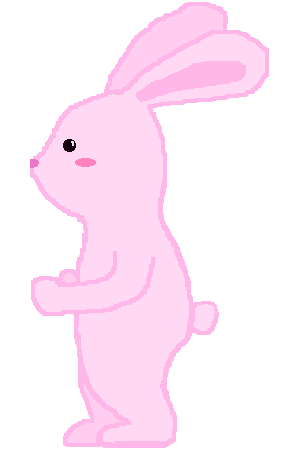
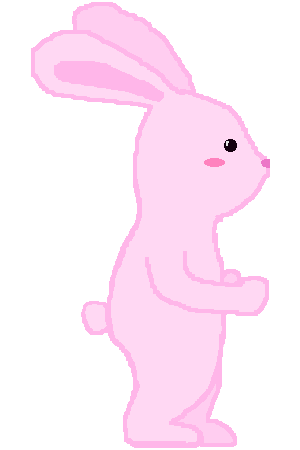
!!점프, 물체 추가하기 해야한다!

diff --git a/src/EarthPart.java b/src/EarthPart.java
@@ -5,8 +5,10 @@ import java.awt.event.KeyListener;
 
 public class EarthPart extends JFrame {
     private Image earthBackground;
-    private Image[] rightRabbit = new Image[2];
-    private Image[] leftRabbit = new Image[2];
+    private Image[] rightRabbit = new Image[3];
+    private Image[] leftRabbit = new Image[3];
+    private Image rabbitBetween;
+    private Image leftRabbitBetween;
 
     private boolean isJumping = false;
     private boolean isMovingLeft = false;
@@ -21,7 +23,7 @@ public class EarthPart extends JFrame {
     private int backgroundX = 0; // 배경의 위치
 
     private int frameCount = 0;
-    private int frameDelay = 10; // 0.1초에 한 번씩 변경 (10ms * 16 = 160ms)
+    private int frameDelay = 5; // 토끼 이미지 변경 속도
 
     private int backgroundSpeed = 4; // 배경 이동 속도 : 숫자가 높을수록 빠름
 
@@ -35,11 +37,16 @@ public class EarthPart extends JFrame {
         setVisible(true);
 
         earthBackground = new ImageIcon(getClass().getResource("img/EarthBackground.png")).getImage();
+
         Image rightRabbitRun1 = new ImageIcon(getClass().getResource("img/rabbit_run1.png")).getImage();
+        rabbitBetween = new ImageIcon(getClass().getResource("img/rabbit_between.png")).getImage();
         Image rightRabbitRun2 = new ImageIcon(getClass().getResource("img/rabbit_run2.png")).getImage();
+        Image rightRabbitJump = new ImageIcon(getClass().getResource("img/rabbit_jump.png")).getImage();
 
         Image leftRabbitRun1 = new ImageIcon(getClass().getResource("img/left_rabbit_run1.png")).getImage();
+        leftRabbitBetween = new ImageIcon(getClass().getResource("img/left_rabbit_between.png")).getImage();
         Image leftRabbitRun2 = new ImageIcon(getClass().getResource("img/left_rabbit_run2.png")).getImage();
+        Image leftRabbitJump = new ImageIcon(getClass().getResource("img/left_rabbit_jump.png")).getImage();
 
         int rabbitWidth = rightRabbitRun1.getWidth(null);
         int rabbitHeight = rightRabbitRun1.getHeight(null);
@@ -48,10 +55,12 @@ public class EarthPart extends JFrame {
         scaledHeight = (int) (rabbitHeight * 0.5);
 
         rightRabbit[0] = rightRabbitRun1.getScaledInstance(scaledWidth, scaledHeight, Image.SCALE_SMOOTH);
-        rightRabbit[1] = rightRabbitRun2.getScaledInstance(scaledWidth, scaledHeight, Image.SCALE_SMOOTH);
+        rightRabbit[1] = rabbitBetween.getScaledInstance(scaledWidth, scaledHeight, Image.SCALE_SMOOTH);
+        rightRabbit[2] = rightRabbitRun2.getScaledInstance(scaledWidth, scaledHeight, Image.SCALE_SMOOTH);
 
         leftRabbit[0] = leftRabbitRun1.getScaledInstance(scaledWidth, scaledHeight, Image.SCALE_SMOOTH);
-        leftRabbit[1] = leftRabbitRun2.getScaledInstance(scaledWidth, scaledHeight, Image.SCALE_SMOOTH);
+        leftRabbit[1] = leftRabbitBetween.getScaledInstance(scaledWidth, scaledHeight, Image.SCALE_SMOOTH);
+        leftRabbit[2] = leftRabbitRun2.getScaledInstance(scaledWidth, scaledHeight, Image.SCALE_SMOOTH);
 
         addKeyListener(new MyKeyListener());
         setContentPane(new MyPanel());
@@ -91,10 +100,10 @@ public class EarthPart extends JFrame {
             // 키 눌림 이벤트 처리
             if (e.getKeyCode() == KeyEvent.VK_RIGHT) {
                 isMovingRight = true;
-                isMovingLeft = false; //오른쪽으로 이동할 때 왼쪽 이동 상태를 해제
+                isMovingLeft = false; // 오른쪽으로 이동할 때 왼쪽 이동 상태를 해제
             } else if (e.getKeyCode() == KeyEvent.VK_LEFT) {
-                isMovingLeft = true; // 추가: 왼쪽으로 이동할 때 왼쪽 이동 상태를 설정합니다.
-                isMovingRight = false; //왼쪽으로 이동할 때 오른쪽 이동 상태를 해제
+                isMovingLeft = true; //왼쪽으로 이동할 때 왼쪽 이동 상태를 설정합니다.
+                isMovingRight = false; // 왼쪽으로 이동할 때 오른쪽 이동 상태를 해제
             }
         }
 
@@ -110,16 +119,23 @@ public class EarthPart extends JFrame {
     }
 
     public void update() {
-        boolean isMoving = isMovingRight || isMovingLeft; //토끼가 이동 중인지 확인
+        boolean isMoving = isMovingRight || isMovingLeft; // 토끼가 이동 중인지 확인
 
         if (isMoving) {
             if (isMovingRight) {
                 rabbitX += rabbitMoveSpeed;
             } else if (isMovingLeft) {
-                rabbitX -= rabbitMoveSpeed; //왼쪽으로 이동할 때 토끼의 위치를 왼쪽으로 변경합니다.
+                rabbitX -= rabbitMoveSpeed; // 왼쪽으로 이동할 때 토끼의 위치를 왼쪽으로 변경합니다.
             }
         } else {
-            rabbitX-=backgroundSpeed;
+            rabbitX -= backgroundSpeed;
+        }
+
+        //토끼가 화면을 벗어나는지 확인하고 게임 오버 처리
+        int rabbitLeftEdge = rabbitX - 10;
+        int rabbitRightEdge = rabbitX + scaledWidth;
+        if (rabbitLeftEdge + 200 < 0 || rabbitRightEdge > getWidth()) {
+            System.out.println("게임 오버");
         }
 
         frameCount++;
@@ -135,16 +151,24 @@ public class EarthPart extends JFrame {
         if (isMovingRight) {
             Image temp = rightRabbit[0];
             rightRabbit[0] = rightRabbit[1];
-            rightRabbit[1] = temp;
+            rightRabbit[1] = rightRabbit[2];
+            rightRabbit[2] = temp;
         } else if (isMovingLeft) {
             Image temp = leftRabbit[0];
             leftRabbit[0] = leftRabbit[1];
-            leftRabbit[1] = temp;
+            leftRabbit[1] = leftRabbit[2];
+            leftRabbit[2] = temp;
         }
     }
 
     private Image getCurrentRabbitImage() {
-        return isMovingLeft ? leftRabbit[1] : rightRabbit[isMovingRight ? 1 : 0];
+        if (isMovingLeft) {
+            return leftRabbit[1];
+        } else if (isMovingRight) {
+            return rightRabbit[1];
+        } else {
+            return rightRabbit[1];
+        }
     }
 
     public static void main(String[] args) {
@@ -153,7 +177,7 @@ public class EarthPart extends JFrame {
             earthPart.setDefaultCloseOperation(JFrame.EXIT_ON_CLOSE);
             earthPart.setVisible(true);
 
-            // 추가: 주기적으로 업데이트 메소드 호출
+            //주기적으로 업데이트 메소드 호출
             Timer timer = new Timer(16, e -> earthPart.update());
             timer.start();
         });

diff --git a/src/GameOver.java b/src/GameOver.java
@@ -1,0 +1,2 @@
+public class GameOver {
+}
